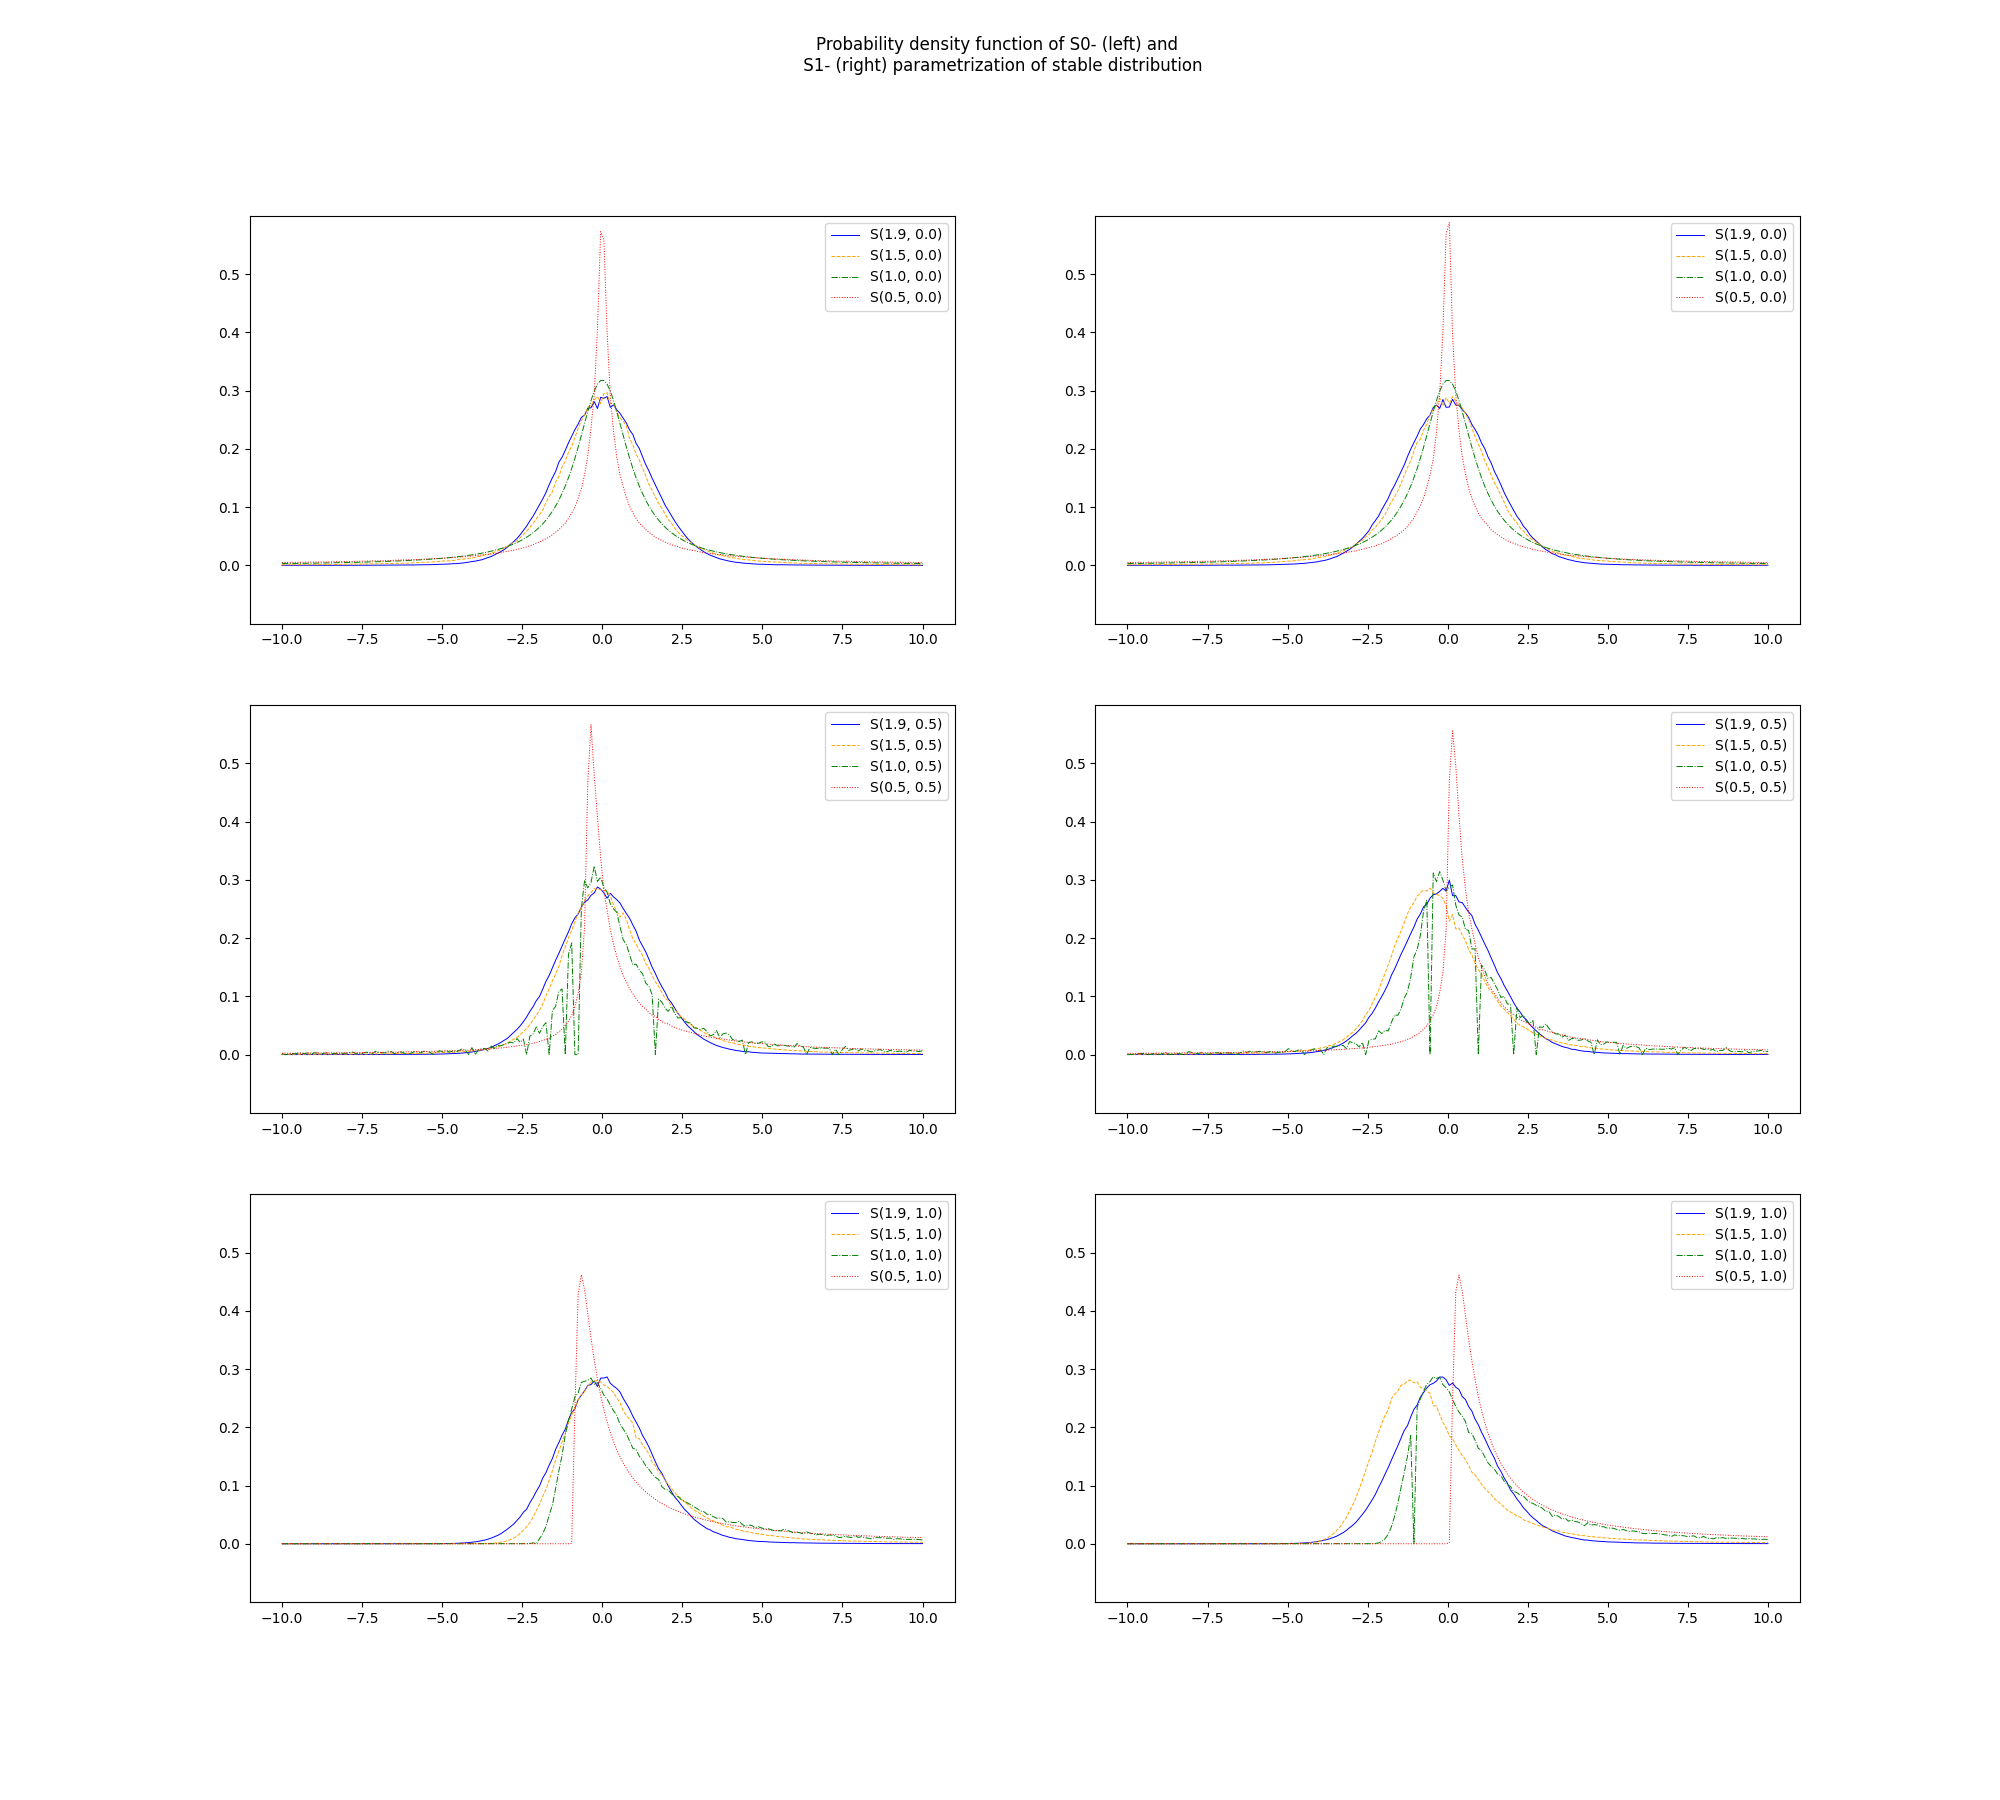
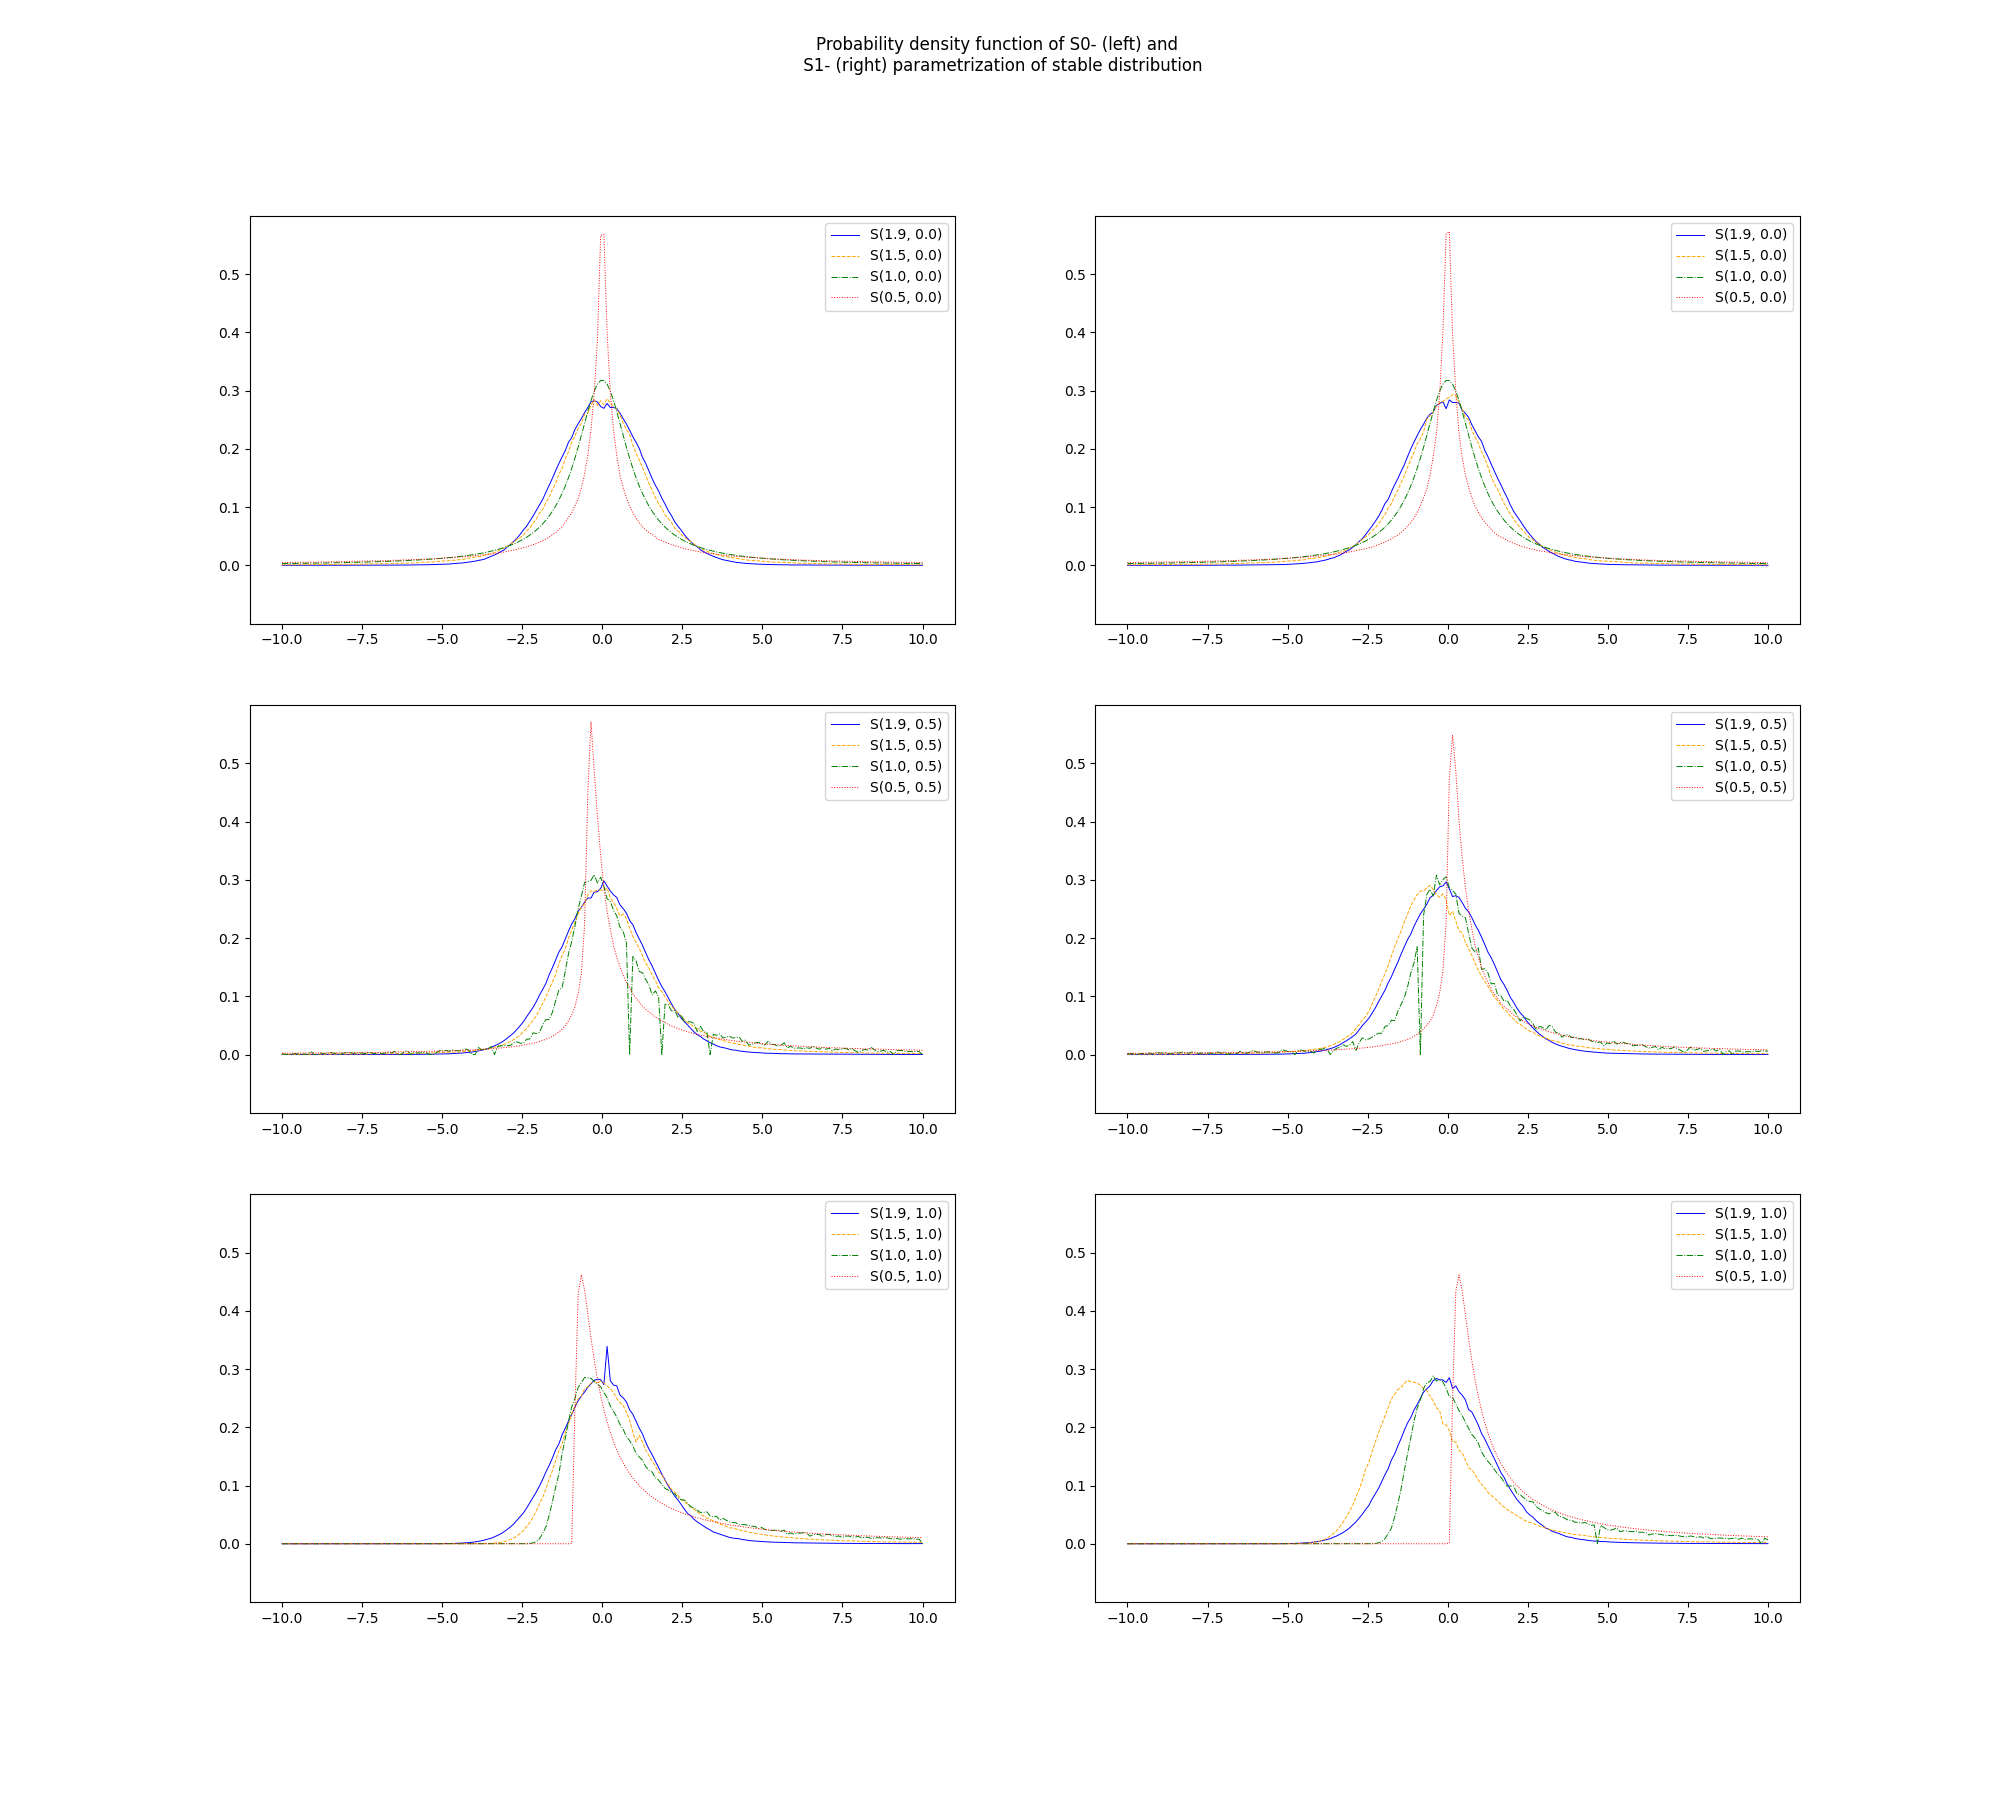
visualize ECF for 10000 samples

diff --git a/visualization/visualization.py b/visualization/visualization.py
@@ -261,6 +261,8 @@ if __name__ == "__main__":
 
     plot_empirical_characteristic_function(grouped_parameter_set=params_grouped_by_alpha, parametrization="S0", n_samples=100, seed=49, filename="./visualization/ecf100_splitted_S0_grouped_by_alpha.png")
     plot_empirical_characteristic_function(grouped_parameter_set=params_grouped_by_alpha, parametrization="S1", n_samples=100, seed=49, filename="./visualization/ecf100_splitted_S1_grouped_by_alpha.png")
+    plot_empirical_characteristic_function(grouped_parameter_set=params_grouped_by_alpha, parametrization="S0", n_samples=10000, seed=49, filename="./visualization/ecf10000_splitted_S0_grouped_by_alpha.png")
+    plot_empirical_characteristic_function(grouped_parameter_set=params_grouped_by_alpha, parametrization="S1", n_samples=10000, seed=49, filename="./visualization/ecf10000_splitted_S1_grouped_by_alpha.png")
 
     plot_densities_parametrizations(grouped_parameter_set=params_grouped_by_beta, filename="./visualization/densities_parametrizatons_grouped_by_beta.png")
 
